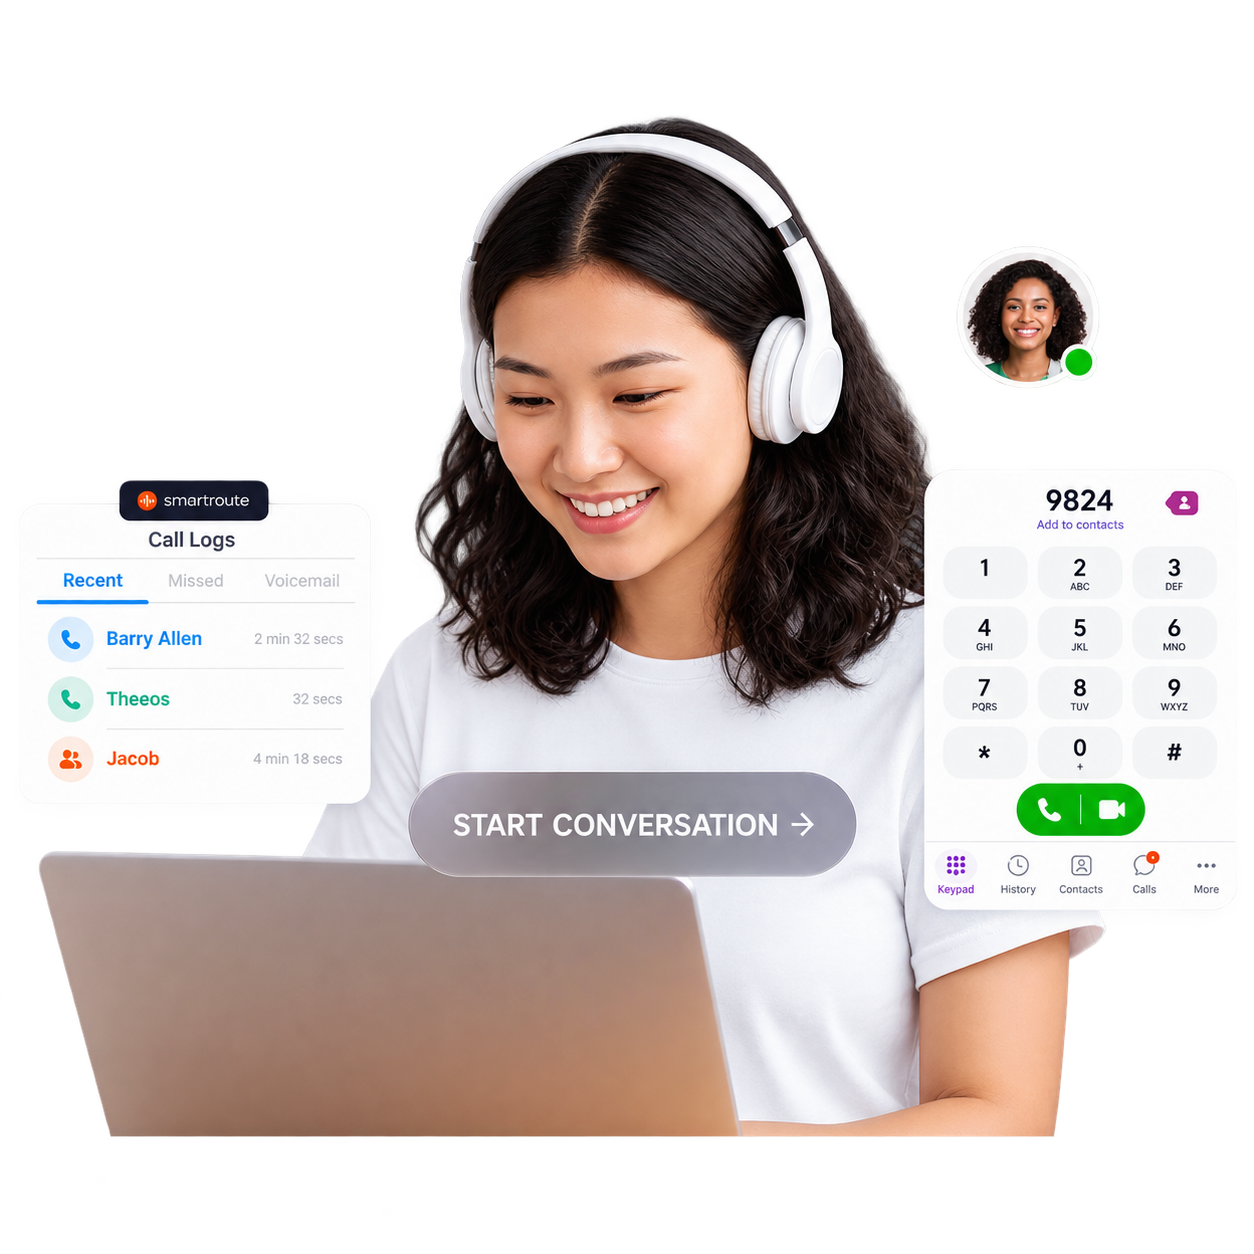
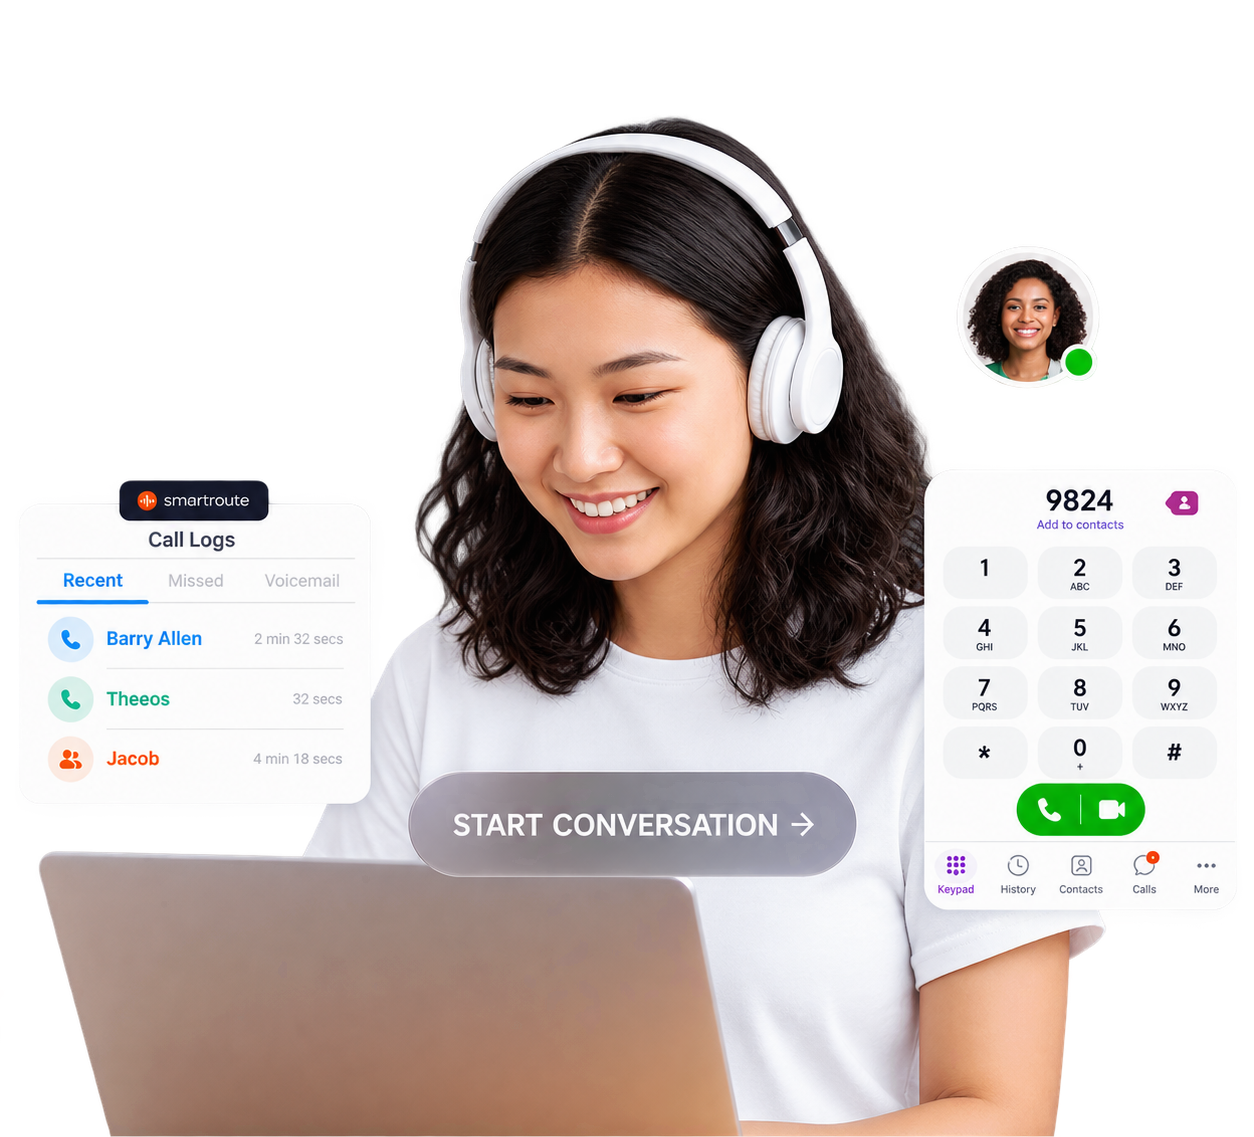
V2.2

diff --git a/app/page.tsx b/app/page.tsx
@@ -45,17 +45,17 @@ export default function Home() {
       </header>
 
       {/* Hero Section */}
-      <section className="relative h-[calc(100vh-88px)] w-full overflow-hidden bg-white">
-        <div className="relative mx-auto h-full w-full max-w-[1600px]">
+      <section className="relative w-full overflow-hidden bg-white">
+        <div className="relative mx-auto w-full max-w-[1600px] min-h-[560px]">
           <div className="absolute inset-y-0 left-0 flex items-center justify-start pl-0 md:pl-2 xl:pl-6">
             <p className="text-left font-black uppercase leading-[0.7] tracking-[-0.08em] text-black/80 text-[clamp(5.5rem,12vw,22rem)]">
               XSOLV
             </p>
           </div>
 
-          <div className="pointer-events-none absolute bottom-0 right-0 z-10 w-[32%] max-w-[500px] min-w-[260px] pr-3 pb-2">
+          <div className="pointer-events-none absolute bottom-0 right-0 z-10 w-[32%] max-w-[500px] min-w-[260px] pr-3 pb-0">
             <Image
-              src="/images/Banner%20img.png"
+              src="/images/img1.png"
               alt="Xsolv banner"
               width={500}
               height={500}
@@ -66,7 +66,7 @@ export default function Home() {
       </section>
 
       {/* Blank Section */}
-      <section className="w-full h-screen bg-black" />
+      <section className="m-0 block w-full bg-black p-0 min-h-[420px] -mt-20" />
     </main>
   );
 }
